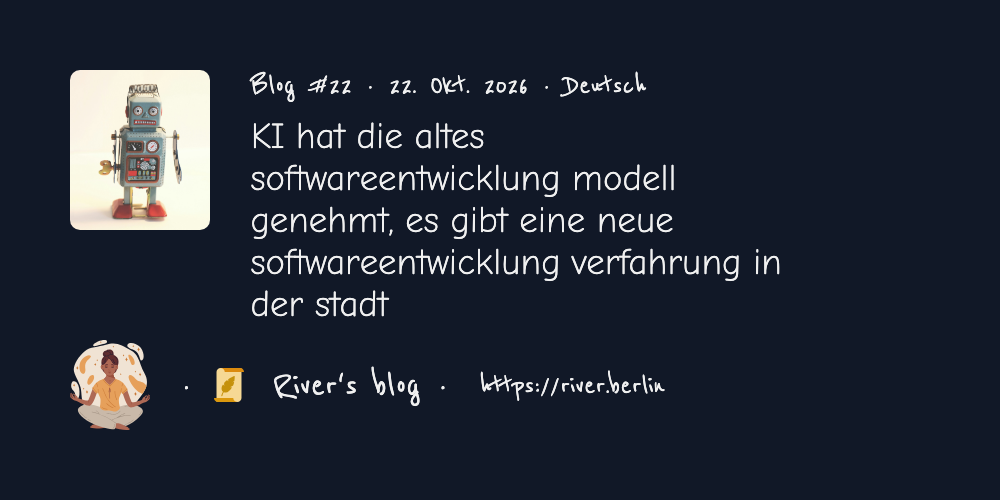
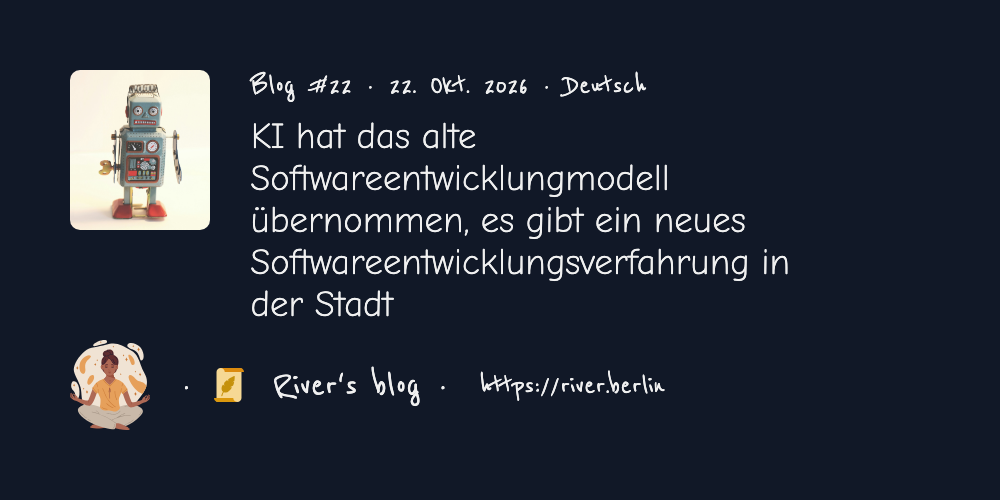
added link in the german version, changed titel a bit

Changed region(s): [[0.248, 0.42, 0.806, 0.63], [0.248, 0.33, 0.682, 0.39], [0.372, 0.24, 0.496, 0.3]]

diff --git a/blog/blog-22/content_de.md b/blog/blog-22/content_de.md
@@ -1,3 +1,9 @@
+> As fun as AI is, we built so much bad software over the last 30 years, and now the universe is punishing us for our sins.
+
+[source](https://simonwillison.net/2026/Oct/22/armin-ronacher/) 
+
+<p class="text-sm">Notiz: Die Quelle verweist auf die Website von Simon Willison, der selbst einen Link zu X benutzt. Ich habe kein Interesse, einen Link zu X zu benutzen, weil es einer faschistischen Person gehört.</p>
+
 Offensichtlich gibt es eine Junior-Entwickler-Krise jetzt, und ganz viele Softwareentwickler haben ihre Jobs verloren, weil Unternehmen glauben, dass wir [Softwareentwickler mit KI ersetzen können](https://digitaleconomy.stanford.edu/project/indicators/canaries-dashboard/)
 
 Aber hier ist die Behauptung, die ich mache. Ich glaube, KI hat das "altes Softwareentwicklungmodell" ersetzt, aber niemand kann das alte Modell noch nutzen.
